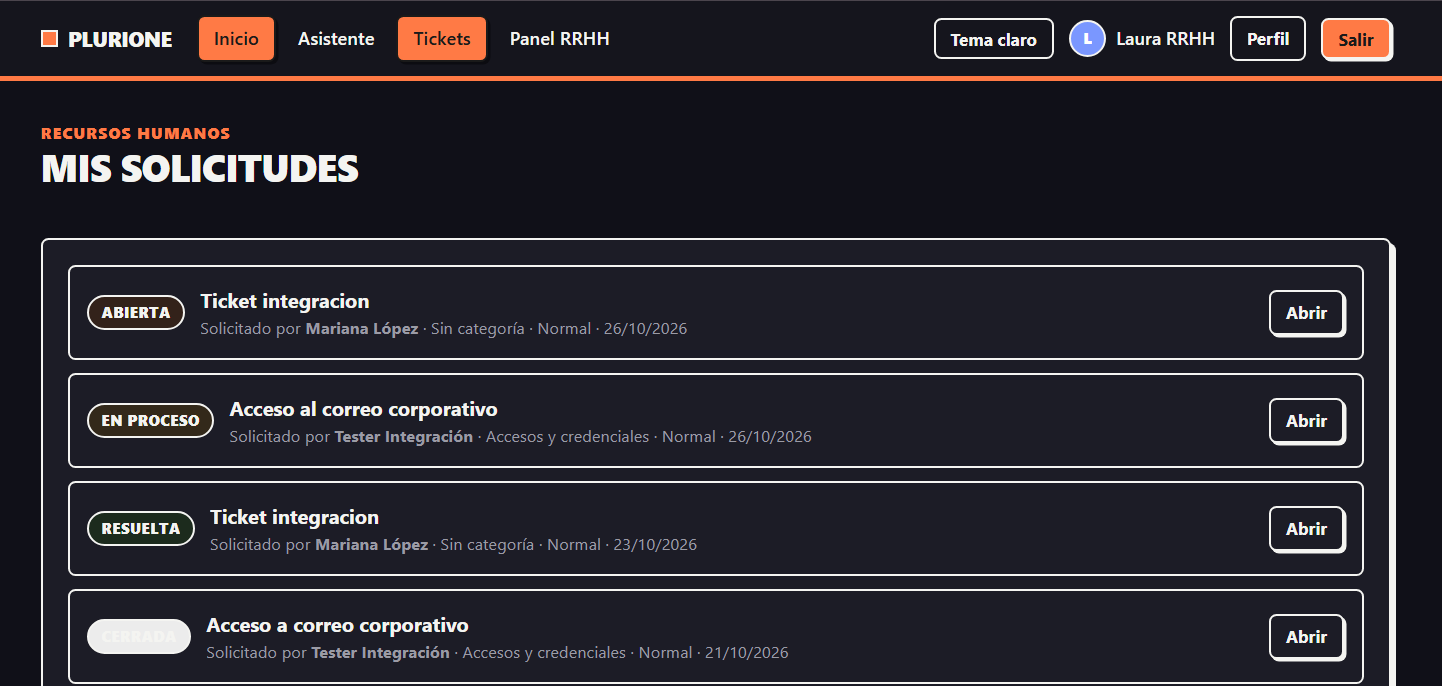
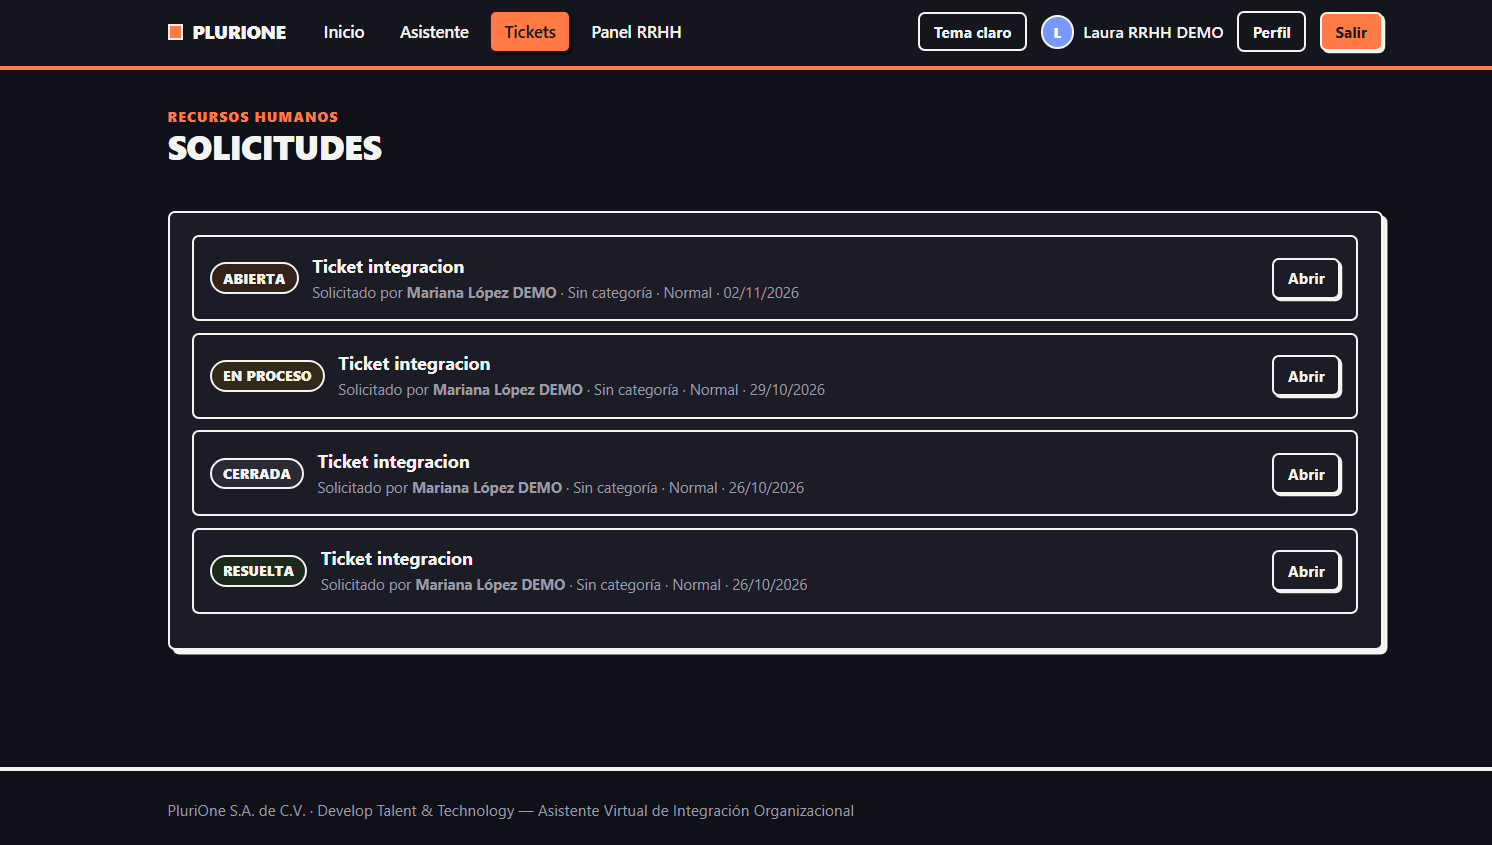
Agrega capturas del checklist (3 estados) y del perfil en tema claro

Changed region(s): [[0.0, 0.0, 1.0, 1.0]]

diff --git a/docs/evidencias/README.md b/docs/evidencias/README.md
@@ -56,11 +56,14 @@ python tests/e2e/integration_test.py
 8. **Perfil con el rol en español** — Colaborador / Recursos Humanos / Administrador.
    ![Perfil con rol en español](perfil-rol-es.png)
 
-9. **Onboarding con estados de tareas** — tareas en «Pendiente» y «Completada».
-   ![Onboarding con tareas](onboarding-tareas-estados.png)
+9. **Checklist con los tres estados** — Pendiente, En proceso, Completada.
+   ![Checklist con tres estados](checklist-tres-estados.png)
 
 10. **Ticket «Cerrada» en tema oscuro** — la etiqueta se lee sobre el fondo oscuro.
     ![Cerrada en tema oscuro](tickets-cerrada-oscuro.png)
 
 11. **Chat con tabla de comparación** — el asistente responde con una tabla renderizada.
     ![Chat con tabla](chat-tabla-comparacion.png)
+
+12. **Perfil en tema claro** — el botón «Perfil» es visible en la barra.
+    ![Perfil en tema claro](perfil-tema-claro.png)
